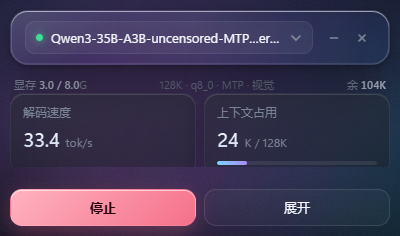
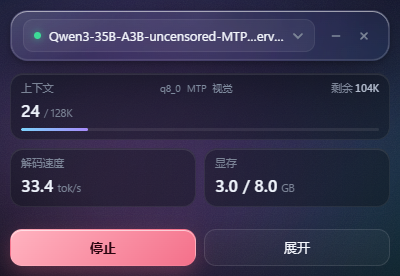
feat(hud): compact tiles in the floating window
- context tile merges used/total, remaining and config tags, with its progress bar
- speed and VRAM as two equal tiles; window 400x276 so nothing is clipped
- thinner top bar, model dropdown keeps its own row

diff --git a/web/css/app.css b/web/css/app.css
@@ -526,7 +526,7 @@ body.mini .app { display: flex; flex-direction: column; padding: 10px; gap: 8px;
 body.mini .main { flex: 1; min-height: 0; }
 body.mini .content { flex: 1; display: flex; flex-direction: column; }
 body.mini .sidebar, body.mini .tabs, body.mini .side-actions { display: none; }
-body.mini .topbar { padding: 10px 14px; border-radius: 18px; }
+body.mini .topbar { padding: 8px 12px; border-radius: 18px; }
 body.mini .tb-left h1 { font-size: 14.5px; }
 body.mini .tb-tags { display: none; }
 body.mini .tb-right { gap: 10px; }
@@ -547,6 +547,29 @@ body.mini .mini-model span { flex: 1 1 0%; min-width: 0; overflow: hidden;
   text-overflow: ellipsis; white-space: nowrap; }
 body.mini .mini-model svg { width: 12px; height: 12px; flex: none; fill: none; stroke: var(--ink3);
   stroke-width: 1.8; stroke-linecap: round; }
+.mini-grid { display: none; }
+body.mini .mini-grid { display: grid; grid-template-columns: 1fr 1fr;
+  grid-auto-rows: min-content; gap: 8px; flex: 1 1 auto; min-height: 0; align-content: start; }
+.mtile.span2 { grid-column: 1 / -1; }
+.mrow { display: flex; align-items: baseline; justify-content: space-between; gap: 8px; }
+.mrest { font-size: 10.5px; color: var(--ink3); white-space: nowrap; }
+.mrest b { color: var(--ink2); font-weight: 600; font-variant-numeric: tabular-nums; }
+.mtile { position: relative; padding: 7px 10px 8px; border-radius: 13px; display: flex;
+  flex-direction: column; justify-content: center;
+  background: rgba(12,16,24,.42); border: 1px solid var(--line-soft);
+  box-shadow: inset 0 1px 0 rgba(255,255,255,.10); min-width: 0; }
+.mlabel { display: block; font-size: 10.5px; color: var(--ink3); letter-spacing: .02em; }
+.mval { display: flex; align-items: baseline; gap: 4px; margin-top: 2px; min-width: 0; }
+.mval b { font-size: 17px; font-weight: 600; font-variant-numeric: tabular-nums;
+  color: #eef3fb; white-space: nowrap; }
+.mval em { font-style: normal; font-size: 10.5px; color: var(--ink3); white-space: nowrap; }
+.mtile .meter { height: 3px; margin-top: 5px; border-radius: 99px; }
+.mtags { display: flex; gap: 4px; margin-top: 3px; overflow: hidden; }
+.mval .mtags { margin: 0 0 0 auto; flex: none; }
+.mrow .mtags { display: flex; gap: 6px; margin: 0 0 0 8px; min-width: 0; overflow: hidden; }
+.mrow .mtags span { font-size: 10px; padding: 0; border: 0; background: none; color: #7f8b9e; }
+.mtags span { font-size: 9.5px; padding: 1px 6px; border-radius: 99px; color: #a9c9e6;
+  background: rgba(125,211,252,.12); border: 1px solid rgba(125,211,252,.22); white-space: nowrap; }
 .mini-meta { display: none; }
 body.mini .mini-meta { display: flex; justify-content: space-between; gap: 10px; padding: 0 4px;
   min-width: 0; overflow: hidden;
@@ -564,14 +587,15 @@ body.mini .tb-right { display: none; }
 body.mini .metric-inline b { font-size: 16px; }
 body.mini .vram-chip { display: none; }
 body.mini .content { padding: 0; overflow: hidden; }
-body.mini .grid.stats { grid-template-columns: 1fr 1fr; gap: 8px; margin: 0; }
+body.mini .grid.stats { display: none; }
 body.mini .stat { padding: 10px 12px; border-radius: 14px; min-height: 0; }
 body.mini .stat:nth-child(n+3) { display: none; }
 body.mini .stat-v { margin: 3px 0 0; }
 body.mini .stat-v b { font-size: 20px; }
 body.mini .spark, body.mini .stat-f, body.mini .stat-h svg { display: none; }
 /* 悬浮窗也要能一眼看出上下文用了多少：只给"上下文"那张卡留一条细进度条 */
-body.mini .meter { display: none; }
+body.mini .stat .meter { display: none; }
+body.mini .mini-grid .meter { display: block; }
 body.mini .stat:nth-child(2) .meter { display: block; height: 4px; margin-top: 8px; border-radius: 99px; }
 body.mini .chart-card, body.mini .grid.two, body.mini .warn-strip,
 body.mini .view[data-view]:not([data-view="dashboard"]) { display: none; }

diff --git a/web/js/app.js b/web/js/app.js
@@ -172,20 +172,29 @@
       $('#miniModel').hidden = false;
       $('#miniModelName').textContent = c ? midName(c.label, 28) : '没有模型';
       $('#miniModel').title = (c ? c.label : '') + (S.status.pid ? ' · PID ' + S.status.pid : '');
-      const mm = $('#miniMeta');
+      const mg = $('#miniGrid');
       const capK = Math.round((S.live.ctx_cap || 0) / 1024);
       const usedK = Math.round((S.live.ctx_used || 0) / 1024);
       const lc = S.cfg.launch || {};
-      const cfgLine = (lc.ctx === 'auto' ? (S.status.ctx || '自动') : (lc.ctx + 'K'))
-        + ' · ' + (S.status.kv || lc.kv || '—')
-        + (lc.spec === 'draft-mtp' ? ' · MTP' : '')
-        + (lc.mmproj && c && c.has_mmproj ? ' · 视觉' : '');
-      if (mm) {
-        mm.innerHTML = '<span title="显存占用">显存 <b>' + (S.live.gpu.total
-            ? ((S.live.gpu.used / 1024).toFixed(1) + ' / ' + (S.live.gpu.total / 1024).toFixed(1))
-            : '—') + '</b>G</span>'
-          + '<span title="启动配置">' + esc(cfgLine) + '</span>'
-          + '<span title="上下文剩余">余 <b>' + (capK ? Math.max(0, capK - usedK) + 'K' : '—') + '</b></span>';
+      if (mg) {
+        // 四宫格：速度 / 上下文+进度条 / 显存 / 剩余（配置用标签，不重复 128K）
+        $('#mgTps').textContent = (S.live.tps || 0).toFixed(1);
+        $('#mgCtx').textContent = usedK || '0';
+        $('#mgCtxCap').textContent = capK ? '/ ' + capK + 'K' : '/ —';
+        const bar = $('#mgBar');
+        const pct = capK ? clamp(usedK / capK * 100, 0, 100) : 0;
+        bar.style.width = pct + '%';
+        bar.classList.toggle('hot', pct > 85);
+        const gpu = S.live.gpu || {};
+        $('#mgVram').textContent = gpu.total
+          ? (((gpu.used || 0) / 1024).toFixed(1) + ' / ' + (gpu.total / 1024).toFixed(1))
+          : '—';
+        $('#mgLeft').textContent = capK ? Math.max(0, capK - usedK) + 'K' : '—';
+        const tags = [];
+        if (S.status.kv) tags.push(S.status.kv);
+        if (lc.spec === 'draft-mtp') tags.push('MTP');
+        if (lc.mmproj && c && c.has_mmproj) tags.push('视觉');
+        $('#mgTags').innerHTML = tags.map((t) => '<span>' + esc(t) + '</span>').join('');
       }
     }
     $('#verTag').textContent = 'v' + S.version;

diff --git a/web/index.html b/web/index.html
@@ -124,7 +124,25 @@
           <span id="warnText"></span>
         </div>
 
-        <div class="mini-meta" id="miniMeta"></div>
+        <div class="mini-grid" id="miniGrid">
+          <div class="mtile span2">
+            <div class="mrow">
+              <span class="mlabel">上下文</span>
+              <span class="mtags" id="mgTags"></span>
+              <span class="mrest">剩余 <b id="mgLeft">—</b></span>
+            </div>
+            <div class="mval"><b id="mgCtx">—</b><em id="mgCtxCap">/ —</em></div>
+            <div class="meter"><i id="mgBar"></i></div>
+          </div>
+          <div class="mtile">
+            <span class="mlabel">解码速度</span>
+            <div class="mval"><b id="mgTps">—</b><em>tok/s</em></div>
+          </div>
+          <div class="mtile">
+            <span class="mlabel">显存</span>
+            <div class="mval"><b id="mgVram">—</b><em>GB</em></div>
+          </div>
+        </div>
         <div class="grid stats">
           <div class="card stat">
             <div class="stat-h"><span>解码速度</span><svg viewBox="0 0 24 24" class="i"><path d="M3 17l5-6 4 3 4-7 5 5"/></svg></div>

diff --git a/app.py b/app.py
@@ -281,7 +281,7 @@ def open_window(url, mini=False, topmost=False, w=1280, h=880, pos=None):
     exe = find_edge()
     if not exe:
         return None
-    sw, sh = (w, h) if not mini else (400, 236)
+    sw, sh = (w, h) if not mini else (400, 276)
     pos = pos or (None, None)
     args = [exe,
             "--app=" + url,
